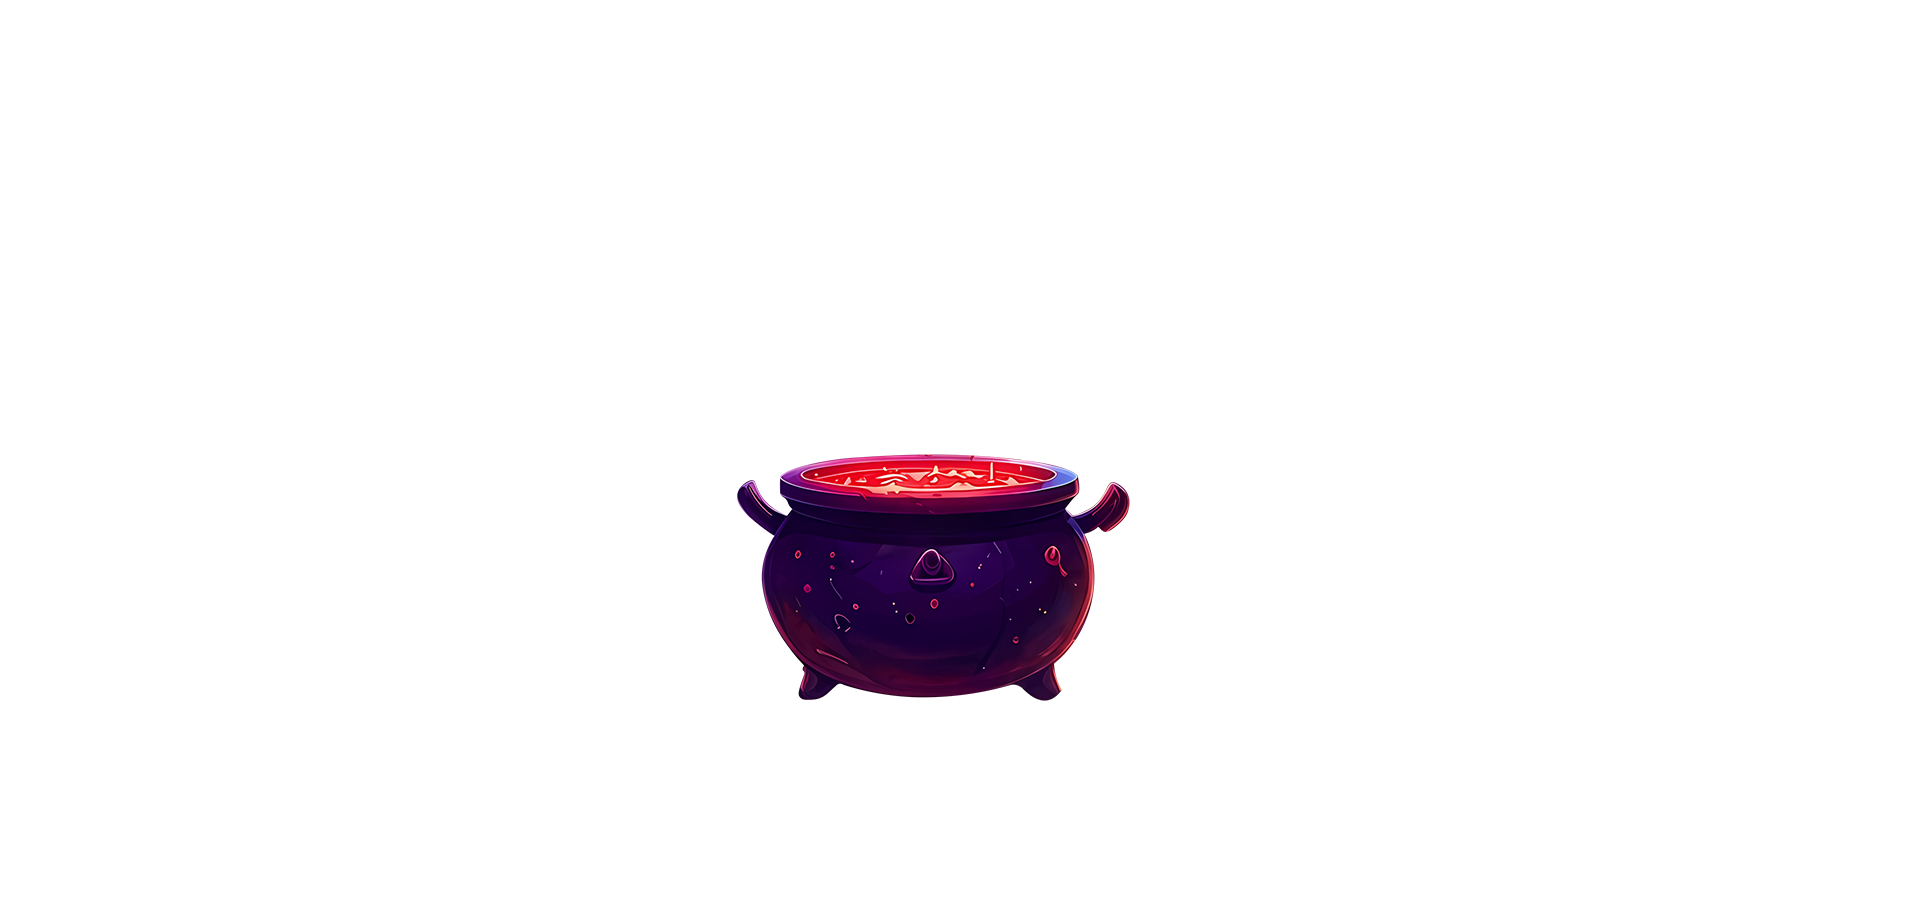
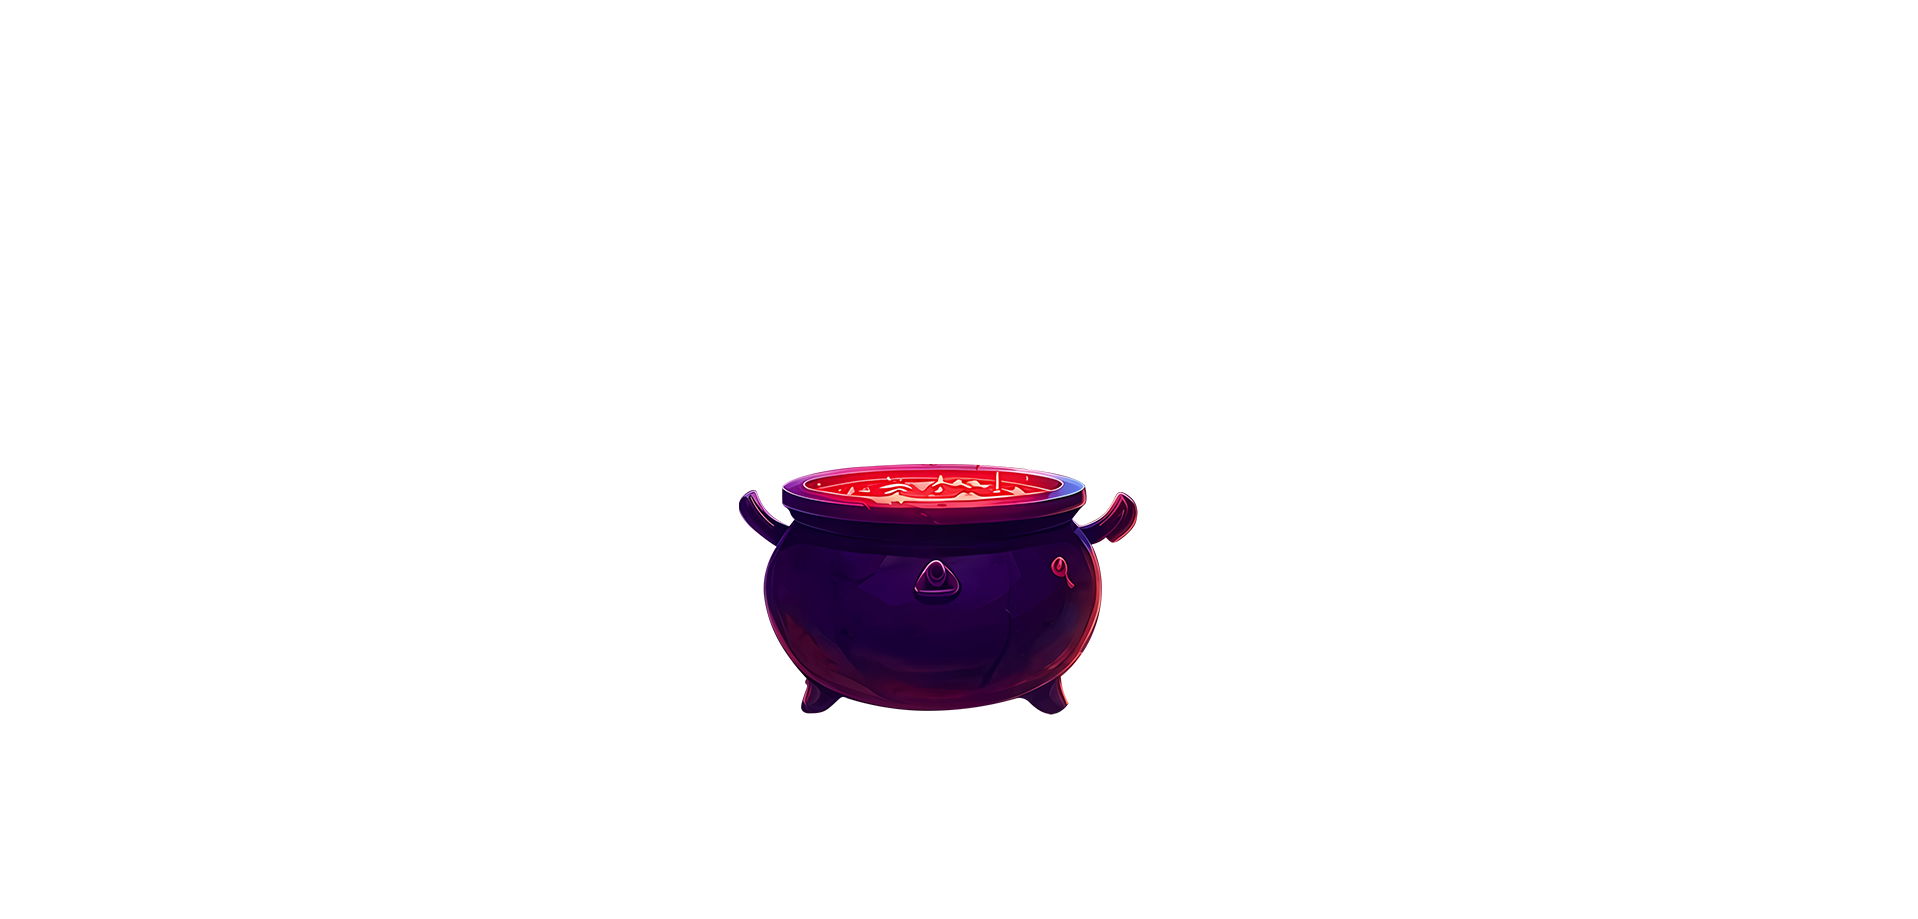
image background update - fixing re-render issue on profil and playerHud component - fixing height of creation component modale on desktop version

Changed region(s): [[0.3691, 0.4875, 0.6152, 0.7922]]

diff --git a/src/components/Modal/Profil/index.jsx b/src/components/Modal/Profil/index.jsx
@@ -5,21 +5,12 @@ import CharacterData from "@/data/Character";
 import { CHAPTERS, getCurrentChapterIndex } from "@/data/Quests";
 import "./Profil.css";
 
-const Profil = ({ playerLevel, xpPercent, completedQuestIds = [] }) => {
-  // Lecture defensive : on evite un plantage si le joueur arrive ici sans
-  // avoir encore de donnees enregistrees dans le localStorage.
-  let pseudo = "Aventurier";
-  let classe = "Inconnue";
-  try {
-    const userDatas = JSON.parse(localStorage.getItem("userDatas"));
-    pseudo = userDatas?.pseudo || pseudo;
-    classe = userDatas?.classe || classe;
-  } catch {
-    // valeurs par defaut deja en place
-  }
+const Profil = ({ playerLevel, xpPercent, completedQuestIds = [], pseudo, classe }) => {
+  const displayPseudo = pseudo || "Aventurier";
+  const displayClasse = classe || "Inconnue";
 
   const level = playerLevel || 1;
-  const classeData = CharacterData.find((entry) => entry.name === classe);
+  const classeData = CharacterData.find((entry) => entry.name === displayClasse);
   const avatarImage = classeData?.avatar || CharacterData[0].avatar;
 
   // Chapitre courant : derive de completedQuestIds, jamais stocke a part
@@ -32,15 +23,15 @@ const Profil = ({ playerLevel, xpPercent, completedQuestIds = [] }) => {
           <div className="profil-avatar-wrapper">
             <div
               className="profil-avatar img-avatar"
-              style={{ backgroundImage: `url(${avatarImage})` }}
+              style={{ backgroundImage: `url(${avatarImage})`, "--classe-accent": classeData?.color, }}
             ></div>
             <div className="profil-level-badge">
               <span className="profil-level-number">{level}</span>
             </div>
           </div>
           <div className="profil-identity">
-            <h5 className="profil-classe uppercase">{classe}</h5>
-            <h2 className="profil-pseudo">{pseudo}</h2>
+            <h5 className="profil-classe uppercase">{displayClasse}</h5>
+            <h2 className="profil-pseudo">{displayPseudo}</h2>
             <div className="profil-xp-bar">
               <div
                 className="profil-xp-fill"
@@ -56,7 +47,7 @@ const Profil = ({ playerLevel, xpPercent, completedQuestIds = [] }) => {
             Biographie
           </h4>
           <div className="profil-bio text-justify">
-            Magicien hors pair, <b>{pseudo}</b> connut la renommee durant ses
+            Magicien hors pair, <b>{displayPseudo}</b> connut la renommee durant ses
             etudes a la prestigieuse Academie de Magie de Dalaran. Son talent
             exceptionnel pour les arcanes fut decouvert tres tot, attirant
             l'attention des plus grands Archimages de la cite.

diff --git a/src/components/PlayerHud/index.jsx b/src/components/PlayerHud/index.jsx
@@ -9,22 +9,15 @@ import "./PlayerHud.css";
  * Widget affiche portrait, niveau, classe et
  * progression a travers les chapitres.
  *
- * Composant presentationnel : la lecture du pseudo/de la classe dans le
- * localStorage suit exactement le meme motif deja utilise dans Modal/Profil
+ * Composant presentationnel pur : pseudo/classe arrivent en props depuis
+ * Game (source unique de verite), plus de lecture directe du localStorage.
  */
-const PlayerHud = ({ playerLevel, xpPercent, currentChapterIndex }) => {
-  let pseudo = "Aventurier";
-  let classe = "Inconnue";
-  try {
-    const userDatas = JSON.parse(localStorage.getItem("userDatas"));
-    pseudo = userDatas?.pseudo || pseudo;
-    classe = userDatas?.classe || classe;
-  } catch {
-    // valeurs par defaut deja en place
-  }
+const PlayerHud = ({ playerLevel, xpPercent, currentChapterIndex, pseudo, classe }) => {
+  const displayPseudo = pseudo || "Aventurier";
+  const displayClasse = classe || "Inconnue";
 
   const level = playerLevel || 1;
-  const classeData = CharacterData.find((entry) => entry.name === classe);
+  const classeData = CharacterData.find((entry) => entry.name === displayClasse);
   const avatarImage = classeData?.avatar || CharacterData[0].avatar;
 
   return (
@@ -32,9 +25,8 @@ const PlayerHud = ({ playerLevel, xpPercent, currentChapterIndex }) => {
       <div className="player-hud-main tw-player-hud-main">
         {/* Portrait, mis en avant : plus grand que le reste du widget */}
         <div className="player-hud-avatar-wrap tw-player-hud-avatar-wrap">
-          <div
-            className="player-hud-avatar tw-player-hud-avatar"
-            style={{ backgroundImage: `url(${avatarImage})` }}
+          <div className="player-hud-avatar tw-player-hud-avatar"
+            style={{ backgroundImage: `url(${avatarImage})`,"--classe-accent": classeData?.color, }}
           ></div>
           <div className="player-hud-level-badge tw-player-hud-level-badge">
             <span>{level}</span>
@@ -43,8 +35,8 @@ const PlayerHud = ({ playerLevel, xpPercent, currentChapterIndex }) => {
 
         {/* Identite + barre d'XP, reprise de Profil */}
         <div className="player-hud-identity">
-          <h5 className="player-hud-classe tw-player-hud-classe">{classe}</h5>
-          <h2 className="player-hud-pseudo tw-player-hud-pseudo">{pseudo}</h2>
+          <h5 className="player-hud-classe tw-player-hud-classe">{displayClasse}</h5>
+          <h2 className="player-hud-pseudo tw-player-hud-pseudo">{displayPseudo}</h2>
           <div className="player-hud-xp-bar tw-player-hud-xp-bar">
             <div
               className="player-hud-xp-fill"

diff --git a/src/components/Game/index.jsx b/src/components/Game/index.jsx
@@ -37,6 +37,18 @@ const getSavedXp = () => {
   return (level - 1) * XP_PER_LEVEL;
 };
 
+const getSavedPlayerIdentity = () => {
+  try {
+    const stored = JSON.parse(localStorage.getItem("userDatas"));
+    return {
+      pseudo: stored?.pseudo || null,
+      classe: stored?.classe || null,
+    };
+  } catch {
+    return { pseudo: null, classe: null };
+  }
+};
+
 const Game = () => {
 
   const [isBgLoaded, setIsBgLoaded] = useState(false);
@@ -107,6 +119,13 @@ const Game = () => {
   // stockes a part : ce sont des vues pures sur ce seul nombre (voir
   // utils/playerProgress), pour ne jamais pouvoir se desynchroniser.
   const [playerXp, setPlayerXp] = useState(getSavedXp);
+  const [playerIdentity, setPlayerIdentity] = useState(getSavedPlayerIdentity);
+
+  const handleCreateCharacter = (pseudo, classe) => {
+    const identity = { pseudo, classe };
+    localStorage.setItem("userDatas", JSON.stringify(identity));
+    setPlayerIdentity(identity);
+  };
 
   // --- Progression du joueur : toujours DERIVEE, jamais stockee a part ---
   const currentChapterIndex = getCurrentChapterIndex(completedQuestIds);
@@ -292,7 +311,7 @@ const Game = () => {
           >
             <ToastStack />
             <RecipePinnedPanel />
-            <Creation />
+            <Creation onCreateCharacter={handleCreateCharacter} />
             <MusicPlayer />
             <EndGame
               show={showEndGame}
@@ -304,11 +323,15 @@ const Game = () => {
               playerLevel={playerLevel}
               xpPercent={xpProgressPercent}
               currentChapterIndex={currentChapterIndex}
+              pseudo={playerIdentity.pseudo}
+              classe={playerIdentity.classe}
             />
             <SfxListener />
             <Menu
               playerLevel={playerLevel}
               xpProgressPercent={xpProgressPercent}
+              playerPseudo={playerIdentity.pseudo}
+              playerClasse={playerIdentity.classe}
               shopCoins={shopCoins}
               handleCoinsChange={handleCoinsChange}
               liftInventoryItems={inventoryItems}

diff --git a/src/components/Modal/Creation/index.jsx b/src/components/Modal/Creation/index.jsx
@@ -14,7 +14,7 @@ const getClassColor = (name) =>
   GameDatas.find((classeData) => classeData.name === name)?.color ||
   "var(--yirsa-deep-yellow)";
 
-const Creation = () => {
+const Creation = ({ onCreateCharacter }) => {
   const [step, setStep] = useState(STEPS.WELCOME);
   const [pseudo, setPseudo] = useState("");
   const [selectedClasse, setSelectedClasse] = useState(null); // index de la classe choisie
@@ -47,12 +47,7 @@ const Creation = () => {
   useEffect(() => {
     if (!isSubmit || !canSubmit) return;
 
-    const userDatas = {
-      pseudo: pseudo.trim(),
-      classe: selectedClasseData.name,
-    };
-    localStorage.setItem("userDatas", JSON.stringify(userDatas));
-    console.log("Saved to localStorage:", userDatas);
+    onCreateCharacter(pseudo.trim(), selectedClasseData.name);
 
     // Laisse le temps a la transition CSS (fondu + flou, voir .creation-leaving)
     const timeout = setTimeout(

diff --git a/src/components/Menu/index.jsx b/src/components/Menu/index.jsx
@@ -28,6 +28,8 @@ const MENU_ITEMS = [
 const Menu = ({
   playerLevel,
   xpProgressPercent,
+  playerPseudo,
+  playerClasse,
   shopCoins,
   handleCoinsChange,
   liftInventoryItems,
@@ -147,7 +149,15 @@ const Menu = ({
           />
         );
       case 4:
-        return <Profil playerLevel={playerLevel} xpPercent={xpProgressPercent} completedQuestIds={completedQuestIds} />;
+        return (
+          <Profil
+            playerLevel={playerLevel}
+            xpPercent={xpProgressPercent}
+            completedQuestIds={completedQuestIds}
+            pseudo={playerPseudo}
+            classe={playerClasse}
+          />
+        );
       case 5:
         return <Helps />;
       default:

diff --git a/src/components/Modal/Creation/Creation.css b/src/components/Modal/Creation/Creation.css
@@ -26,8 +26,12 @@
   opacity: 0.97;
   box-shadow: 0 8px 30px rgba(0, 0, 0, 0.5);
   filter: blur(0px);
-  max-height: 90vh; /* par defaut : mobile portrait, petit ecran */
   transition: opacity 0.5s ease, filter 0.5s ease;
+  
+  @apply
+    max-h-[90vh] 
+    xl:h-[800px]
+  ;
 }
 
 .creation-modal.creation-leaving {

diff --git a/src/components/Craft/Craft.css b/src/components/Craft/Craft.css
@@ -10,6 +10,11 @@
   background-position: center;
   background-repeat: no-repeat;
   animation: cauldron-glow-pulse 2.4s ease-in-out infinite;
+  
+}
+
+.cauldron-layer:hover {
+  /* filter: drop-shadow(0 0 8px rgba(255, 215, 94, 1)); */
 }
 
 @keyframes cauldron-glow-pulse {

diff --git a/src/components/Modal/Profil/Profil.css b/src/components/Modal/Profil/Profil.css
@@ -17,7 +17,7 @@
   border-radius: 50%;
   background-size: cover;
   background-position: center;
-  border: 3px solid #451e6b;
+  border: 3px solid var(--classe-accent, #451e6b);
   box-shadow: 0 0 12px rgba(69, 30, 107, 0.6);
 }
 

diff --git a/src/components/PlayerHud/PlayerHud.css b/src/components/PlayerHud/PlayerHud.css
@@ -50,7 +50,7 @@
     rounded-full
     bg-cover
     bg-center
-    border-[3px] border-[#451e6b]
+    border-[3px] border-[var(--classe-accent,#451e6b)]
     shadow-[0_0_12px_rgba(0,0,0,0.48)]
 
     xl:w-[84px]
